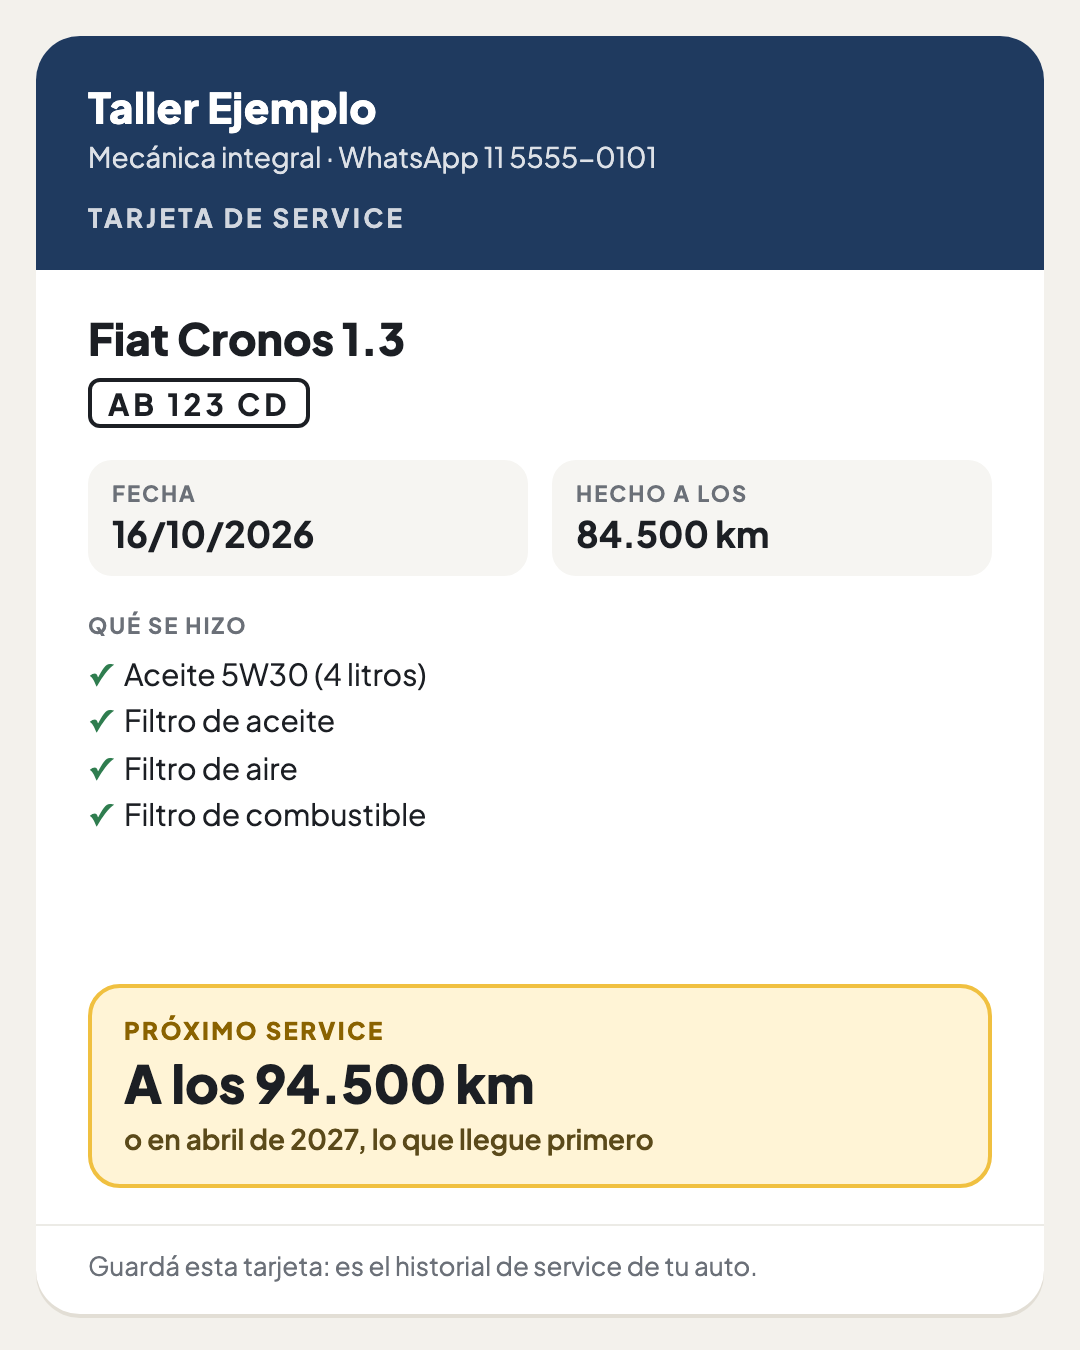
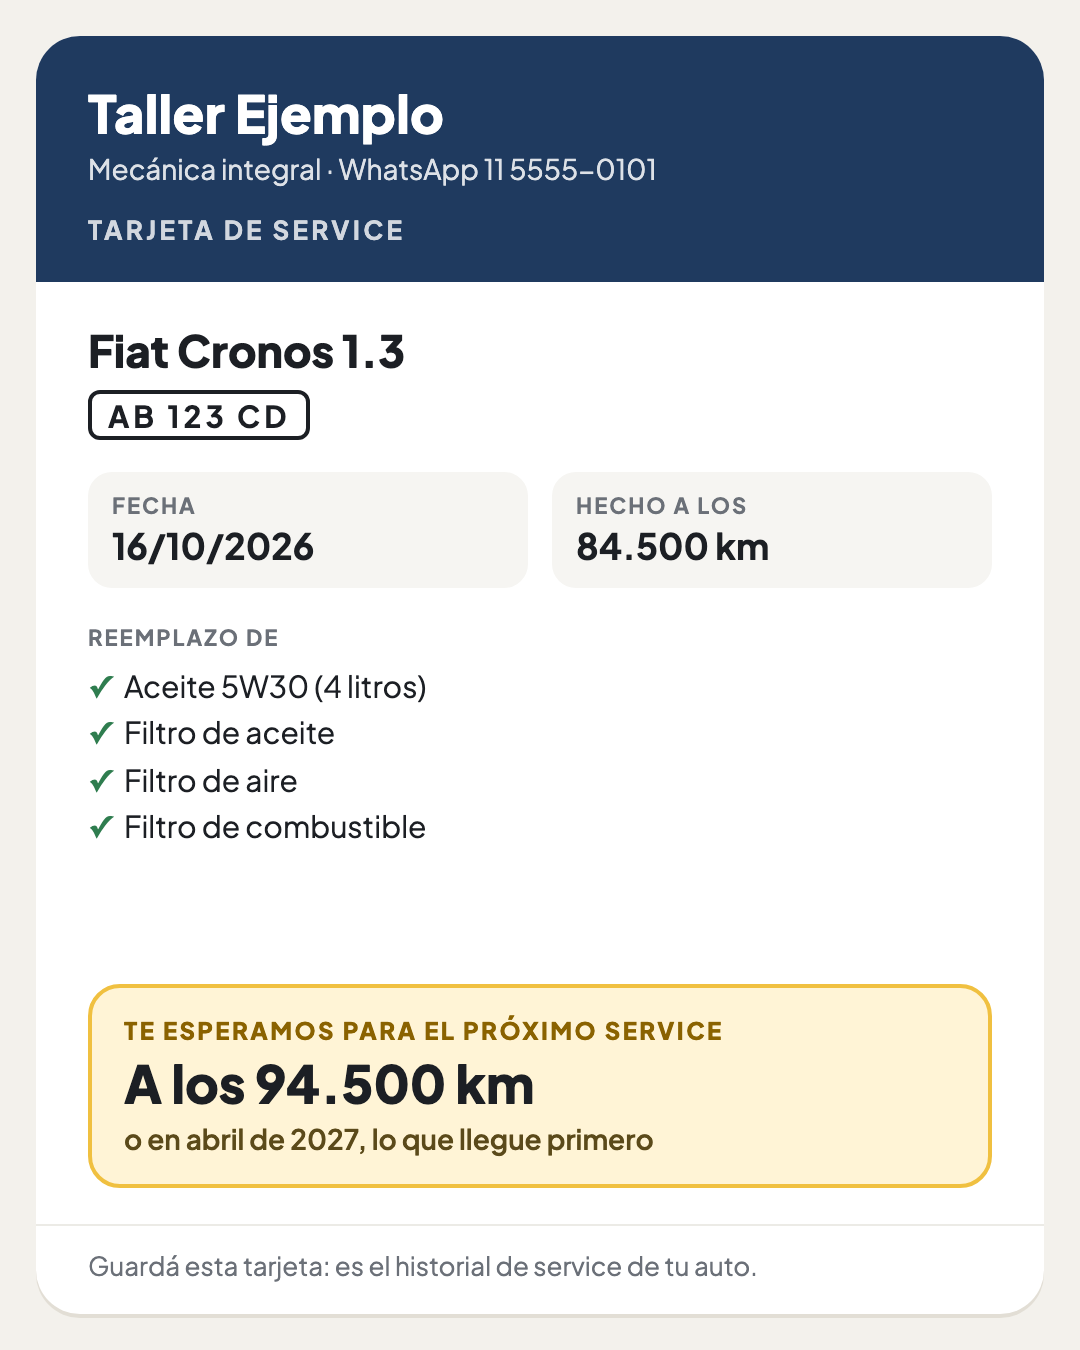
docs: la tarjeta de service usa las palabras de la cartulina del rubro
"Reemplazo de" en lugar de "qué se hizo", el próximo service como invitación y la marca del taller más grande. El informe suma cómo se ve la tarjeta de cartulina de los lubricentros.

Changed region(s): [[0.0306, 0.0622, 0.9778, 0.6222], [0.5194, 0.3422, 0.7028, 0.4356], [0.1222, 0.7467, 0.6722, 0.7778]]

diff --git a/docs/whatsapp-os/tarjeta-de-service/plantilla.html b/docs/whatsapp-os/tarjeta-de-service/plantilla.html
@@ -14,7 +14,7 @@
   body { width: 540px; height: 675px; font-family: "Plus Jakarta Sans", sans-serif; color: #1c1f24; background: #f3f1ec; }
   .card { margin: 18px; height: 639px; background: #fff; border-radius: 22px; overflow: hidden; display: flex; flex-direction: column; box-shadow: 0 2px 0 #e2ded5; }
   .top { background: #1f3a5f; color: #fff; padding: 22px 26px 18px; }
-  .taller { font-size: 21px; font-weight: 800; letter-spacing: .2px; }
+  .taller { font-size: 26px; font-weight: 800; letter-spacing: .2px; }
   .tel { font-size: 14px; opacity: .85; margin-top: 2px; }
   .titulo { margin-top: 14px; font-size: 13px; font-weight: 700; letter-spacing: 1.6px; text-transform: uppercase; opacity: .8; }
   .body { padding: 20px 26px 0; flex: 1; display: flex; flex-direction: column; }
@@ -50,7 +50,7 @@
         <div class="dato"><div class="k">Hecho a los</div><div class="v">84.500 km</div></div>
       </div>
       <div class="hecho">
-        <div class="k">Qué se hizo</div>
+        <div class="k">Reemplazo de</div>
         <ul>
           <li>Aceite 5W30 (4 litros)</li>
           <li>Filtro de aceite</li>
@@ -59,7 +59,7 @@
         </ul>
       </div>
       <div class="proximo">
-        <div class="k">Próximo service</div>
+        <div class="k">Te esperamos para el próximo service</div>
         <div class="v">A los 94.500 km</div>
         <div class="o">o en abril de 2027, lo que llegue primero</div>
       </div>

diff --git a/docs/mercado/reports/Tarjeta de service para talleres.md b/docs/mercado/reports/Tarjeta de service para talleres.md
@@ -10,6 +10,24 @@ El taller argentino ya entrega una tarjeta después del cambio de aceite: una ca
 
 - **Es una tarjeta, no un sticker.** Se vende como "tarjeta de cambio de aceite" o "de control de lubricación": cartulina de 7×11 o 6×10 cm, con la marca del lubricentro al frente y el dorso para completar a mano. Se cuelga del espejo con un elástico o va en un estuche de PVC. También hay un "librito" para 12 visitas. Cuesta unos ARS 28.000 a 46.000 las 100.
 - **El sticker del parabrisas** se usa más en México y en EE.UU.
+
+### Cómo se ve la tarjeta de cartulina
+
+Esto sí se miró directo, en los ejemplos de una imprenta que les vende a lubricentros de Rosario, Jujuy y Misiones ([Re-ciclo](https://re-ciclo.com/automotor/tarjetas-para-cambio-de-aceite-colgante/)):
+
+- **El frente es del taller.** El logo y el nombre ocupan la mitad de la tarjeta, con la dirección y el "CEL/WSP". Abajo, casilleros para el **dominio** y una fila de casilleros para el km bajo la frase **"Lo esperamos para el próximo servicio en el km… o una vez por año"**.
+- **El dorso es un control** ("Control de lubricación"):
+  - fecha y "km actuales";
+  - aceites: motor, caja de cambios, caja de transferencia y diferencial;
+  - filtros: aceite, aire del motor, aire de cabina y combustible;
+  - casillas de engrase y refrigerante, aditivos y observaciones.
+- **Se completa a mano,** con birome, en el momento.
+
+Lo que se toma para la tarjeta digital:
+
+- la marca del taller bien grande;
+- el próximo service dicho como invitación;
+- la lista de lo que se reemplazó, como un control, en lugar de un texto libre.
 - **Los campos** que se repiten: fecha, km, aceite, filtros, trabajos hechos, próximo cambio y los datos del taller.
 - **El intervalo:** km y fecha, lo que llegue primero. Se ven 5.000 km fijos, 5.000 a 10.000 km según el aceite (mineral, semisintético o sintético) y 10.000 km o un año.
 - **Las petroleras no la digitalizaron.** En las apps de YPF, Copec e Ipiranga no apareció historial ni recordatorio por km. Sí lo tienen las terminales, como Toyota.

diff --git a/docs/whatsapp-os/prueba-tarjeta-de-service.md b/docs/whatsapp-os/prueba-tarjeta-de-service.md
@@ -24,15 +24,15 @@ Después de un service o un cambio de aceite que cuenta el dueño, el sistema le
 
 ## La tarjeta
 
-La [plantilla](tarjeta-de-service/plantilla.html) es una imagen de 1080×1350 (4:5), el formato que WhatsApp muestra sin recortar. Los campos son los que usa el rubro:
+La [plantilla](tarjeta-de-service/plantilla.html) es una imagen de 1080×1350 (4:5), el formato que WhatsApp muestra sin recortar. Los campos y las palabras son los de la cartulina que usa el rubro ([cómo se ve](../mercado/reports/Tarjeta%20de%20service%20para%20talleres.md#cómo-se-ve-la-tarjeta-de-cartulina)): la marca del taller arriba, "reemplazo de" en lugar de "qué se hizo" y el próximo service como invitación, "te esperamos".
 
 | Bloque | Qué lleva |
 |---|---|
 | El taller | Nombre, rubro y WhatsApp |
 | El auto | Modelo y patente |
 | El service | Fecha y "hecho a los … km" |
-| Qué se hizo | Aceite (tipo y litros), filtros y otros trabajos, uno por renglón |
-| Próximo service | "A los … km o en [mes y año], lo que llegue primero" |
+| Reemplazo de | Aceite (tipo y litros), filtros y otras piezas, una por renglón |
+| Próximo service | "Te esperamos para el próximo service a los … km o en [mes y año], lo que llegue primero" |
 | Pie | "Guardá esta tarjeta: es el historial de service de tu auto." |
 
 **Reglas:**
